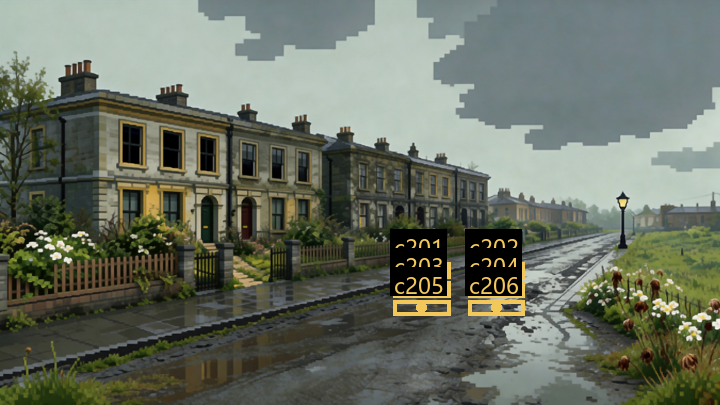
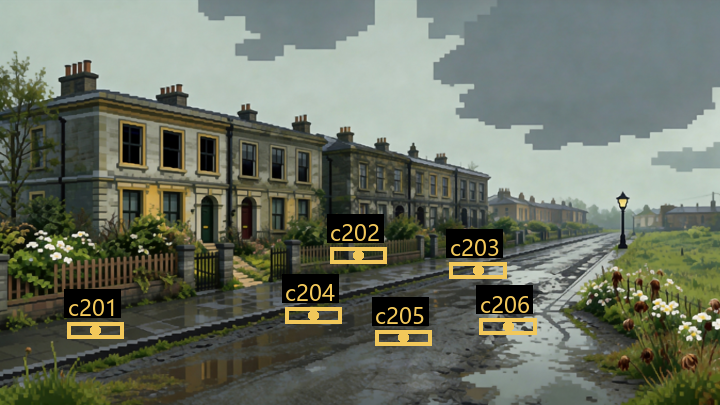
fix: 场景一终局读档防重复自动存档 + 场景二热点精调
- 新增 DetectiveScene._suppress_terminal_save 机制：读到终局阶段后，「继续推进/进入场景二」
  按钮不再自动写入 identical 存档，避免读档面板出现多个一模一样的 scene1 COMPLETE 槽位；
  人工 SAVE 按钮不受影响。scene1 终局阶段=RATING/COMPLETE，scene2 终局阶段=TRANSITION。
- scene1._accept_case/_save_and_continue 在 _suppress_terminal_save=true 时跳过自动存档，
  仅提示并进入场景二。
- 场景二 6 个热点按 sc_02_garden.png 实际内容重新分布：c201 左侧草地、c202/c204 左车道、
  c203/c206 右车道、c205 前景泥地；同步更新 clue_image_anchors.gd、gen_anchor_calibration.py、
  anchor_calib 校验图。点击后 ClueObserver 仍会弹背景放大框+说明（与场景1一致）。
- 新增 headless 测试 test_scene1_terminal_save_suppression.gd（PASS）。
- Web 重导出 + inject_pck_version 注入 mainPack 版本戳（?v=20260815-0742）。

Changed region(s): [[0.4278, 0.5037, 0.7639, 0.8593], [0.3667, 0.6519, 0.4889, 0.8], [0.0917, 0.7111, 0.1833, 0.8593]]

diff --git a/godot_project/web_build/index.html b/godot_project/web_build/index.html
@@ -111,7 +111,7 @@ body {
 
 		<script src="index.js"></script>
 		<script>
-const GODOT_CONFIG = {"args":[],"canvasResizePolicy":1,"emscriptenPoolSize":8,"ensureCrossOriginIsolationHeaders":true,"executable":"index","mainPack":"index.pck?v=20260815-0712","experimentalVK":false,"fileSizes":{"index.pck":97536480,"index.wasm":39509339},"focusCanvas":true,"gdextensionLibs":[],"godotPoolSize":4};
+const GODOT_CONFIG = {"args":[],"canvasResizePolicy":1,"emscriptenPoolSize":8,"ensureCrossOriginIsolationHeaders":true,"executable":"index","mainPack":"index.pck?v=20260815-0742","experimentalVK":false,"fileSizes":{"index.pck":97538868,"index.wasm":39509339},"focusCanvas":true,"gdextensionLibs":[],"godotPoolSize":4};
 const GODOT_THREADS_ENABLED = false;
 const engine = new Engine(GODOT_CONFIG);
 

diff --git a/godot_project/tools/gen_anchor_calibration.py b/godot_project/tools/gen_anchor_calibration.py
@@ -40,13 +40,14 @@ ANCHORS = {
         "limp":    {"cx": 0.5955, "cy": 0.88384, "w": 0.21, "h": 0.20768},
     },
     # —— 场景二 劳瑞斯顿花园街3号·室外 ——
+    # 2026-08-15：与 scene2.gd HOTSPOTS 同步重新分布。
     "res://assets/scenes/sc_02_garden.png": {
-        "c201": {"cx": 0.58594, "cy": 0.66759, "w": 0.07813, "h": 0.03889},
-        "c202": {"cx": 0.69010, "cy": 0.66759, "w": 0.07813, "h": 0.03889},
-        "c203": {"cx": 0.58594, "cy": 0.71389, "w": 0.07813, "h": 0.03889},
-        "c204": {"cx": 0.69010, "cy": 0.71389, "w": 0.07813, "h": 0.03889},
-        "c205": {"cx": 0.58594, "cy": 0.76019, "w": 0.07813, "h": 0.03889},
-        "c206": {"cx": 0.69010, "cy": 0.76019, "w": 0.07813, "h": 0.03889},
+        "c201": {"cx": 0.13281, "cy": 0.81574, "w": 0.07813, "h": 0.03889},
+        "c202": {"cx": 0.49740, "cy": 0.63056, "w": 0.07813, "h": 0.03889},
+        "c203": {"cx": 0.66406, "cy": 0.66759, "w": 0.07813, "h": 0.03889},
+        "c204": {"cx": 0.43490, "cy": 0.77870, "w": 0.07813, "h": 0.03889},
+        "c205": {"cx": 0.55990, "cy": 0.83426, "w": 0.07813, "h": 0.03889},
+        "c206": {"cx": 0.70573, "cy": 0.80648, "w": 0.07813, "h": 0.03889},
     },
     "res://assets/props/ring.png": {
         "ring_inner": {"cx": 0.50, "cy": 0.50, "w": 0.42, "h": 0.42},
